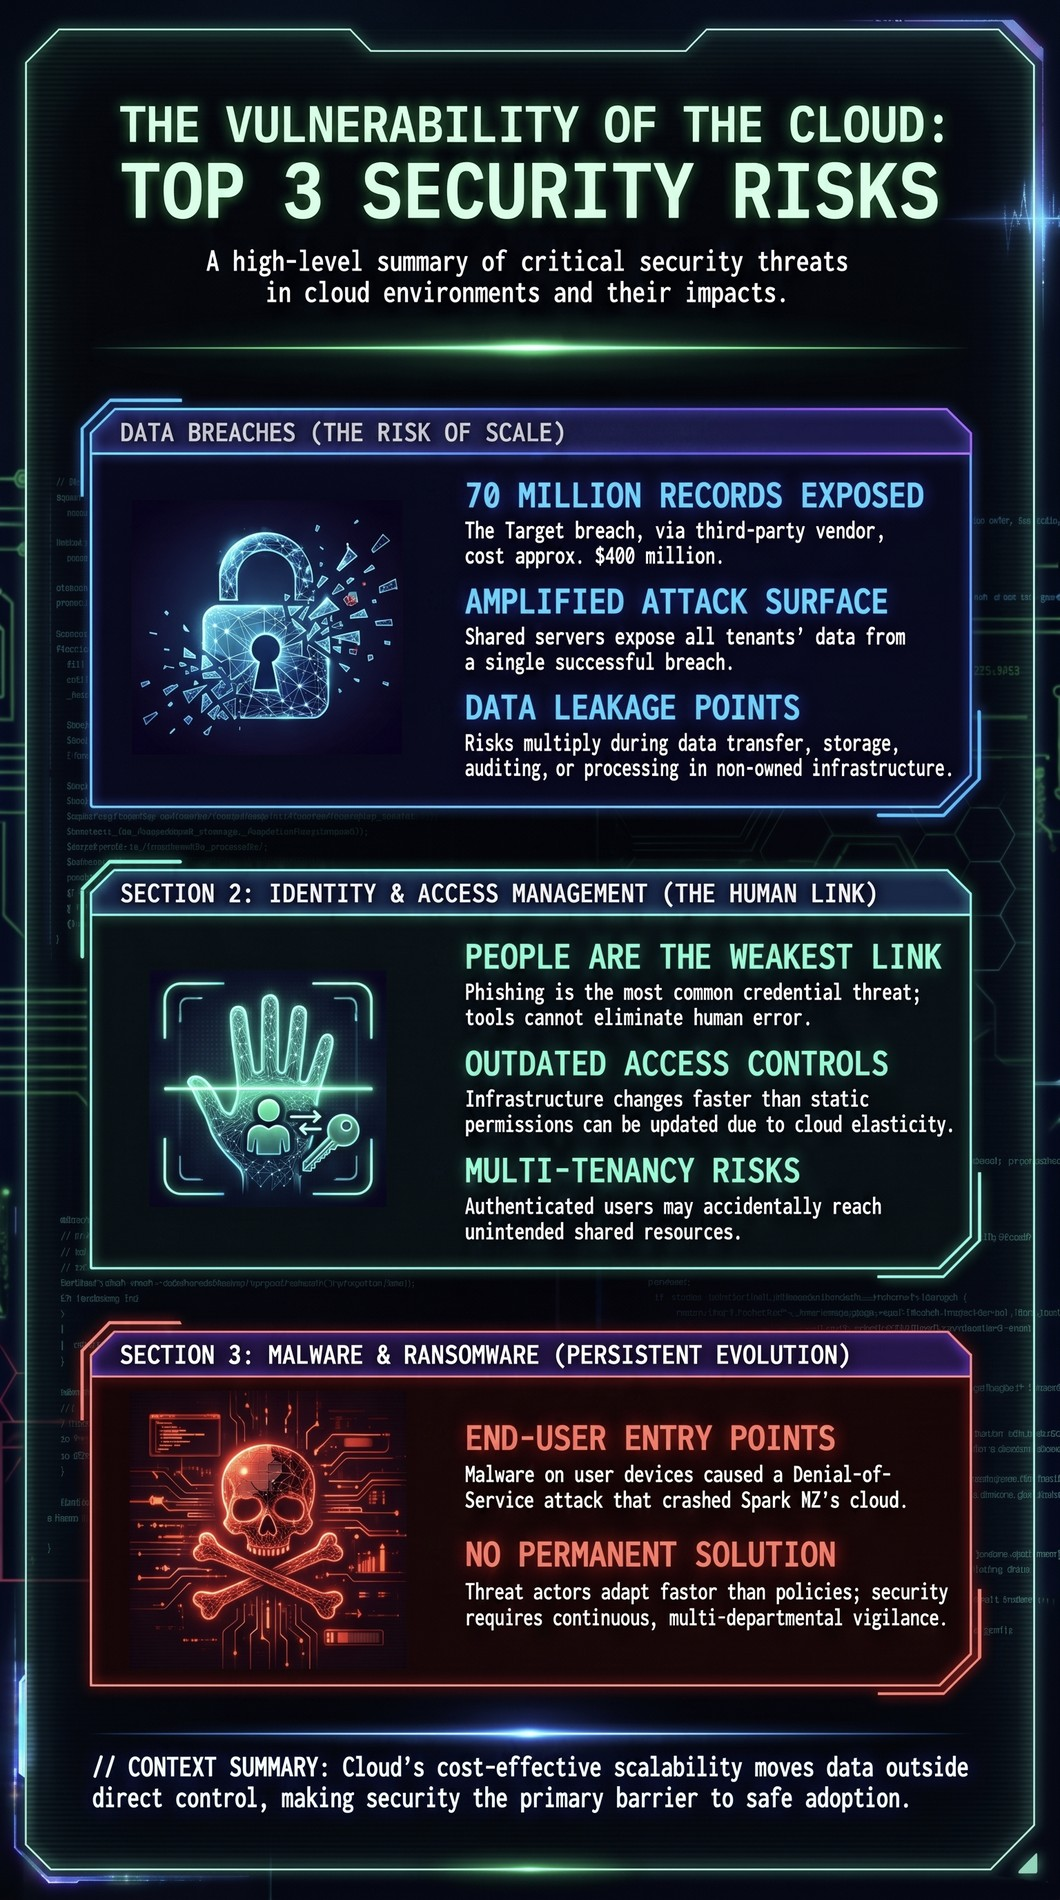
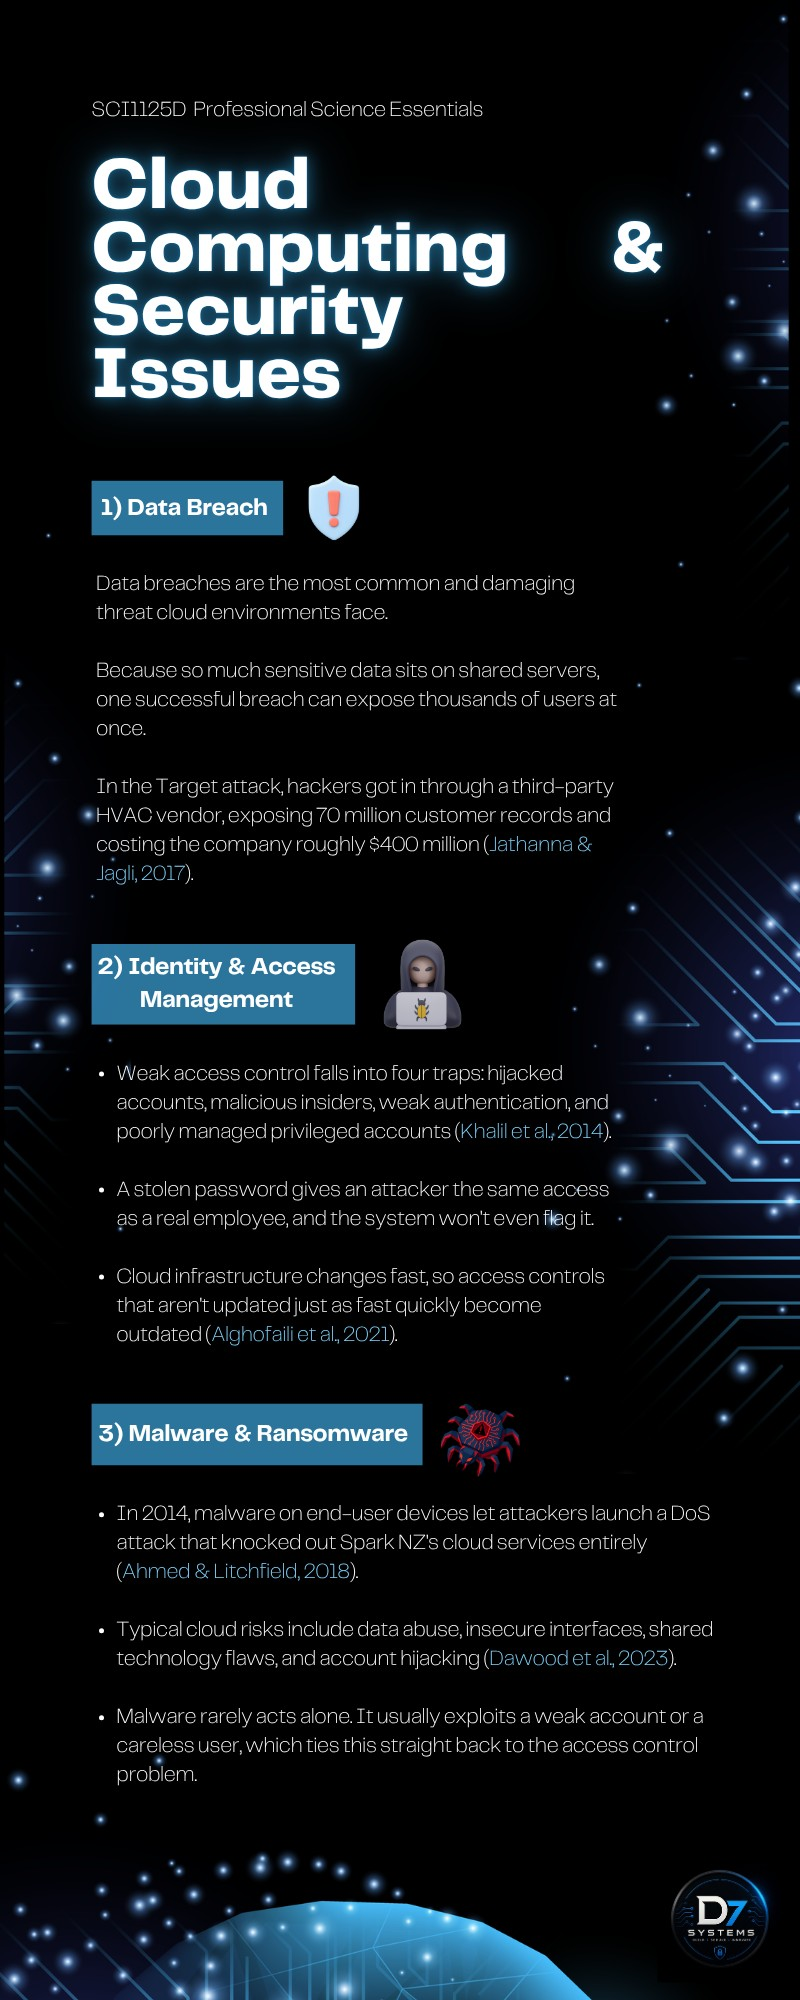
feat: add cloud security infographic and update alt text and reference list

diff --git a/index.html b/index.html
@@ -232,7 +232,7 @@
 
       <button type="button" class="hero__frame" data-hero-frame aria-label="Expand infographic to full size">
         <img class="hero__img" data-hero-img src="assets/web/Top_Three_Cloud_Security_Risks_Infographic.jpg"
-          alt="Infographic titled The Vulnerability of the Cloud: Top 3 Security Risks, summarising data breaches, identity and access management, and malware and ransomware." />
+          alt="Infographic titled Cloud Computing and Security Issues, summarising three sections: data breach, identity and access management, and malware and ransomware." />
       </button>
 
       <p class="hero__prompt" data-hero-prompt aria-hidden="true">
@@ -565,6 +565,9 @@
               <em>Applied Sciences</em>, <em>11</em>(19). <a href="https://doi.org/10.3390/app11199005" target="_blank"
                 rel="noopener noreferrer">https://doi.org/10.3390/app11199005</a>
             </p>
+
+            <p class="ref-entry">Canva. (2025). <em>Canva</em> [Online design tool]. <a href="https://www.canva.com"
+                target="_blank" rel="noopener noreferrer">https://www.canva.com</a></p>
 
             <p class="ref-entry">Dawood, M., Tu, S., Xiao, C., Alasmary, H., Waqas, M., &amp; Rehman, S. U. (2023).
               Cyberattacks and security of cloud computing: A complete guideline. <em>Symmetry</em>, <em>15</em>(11).
